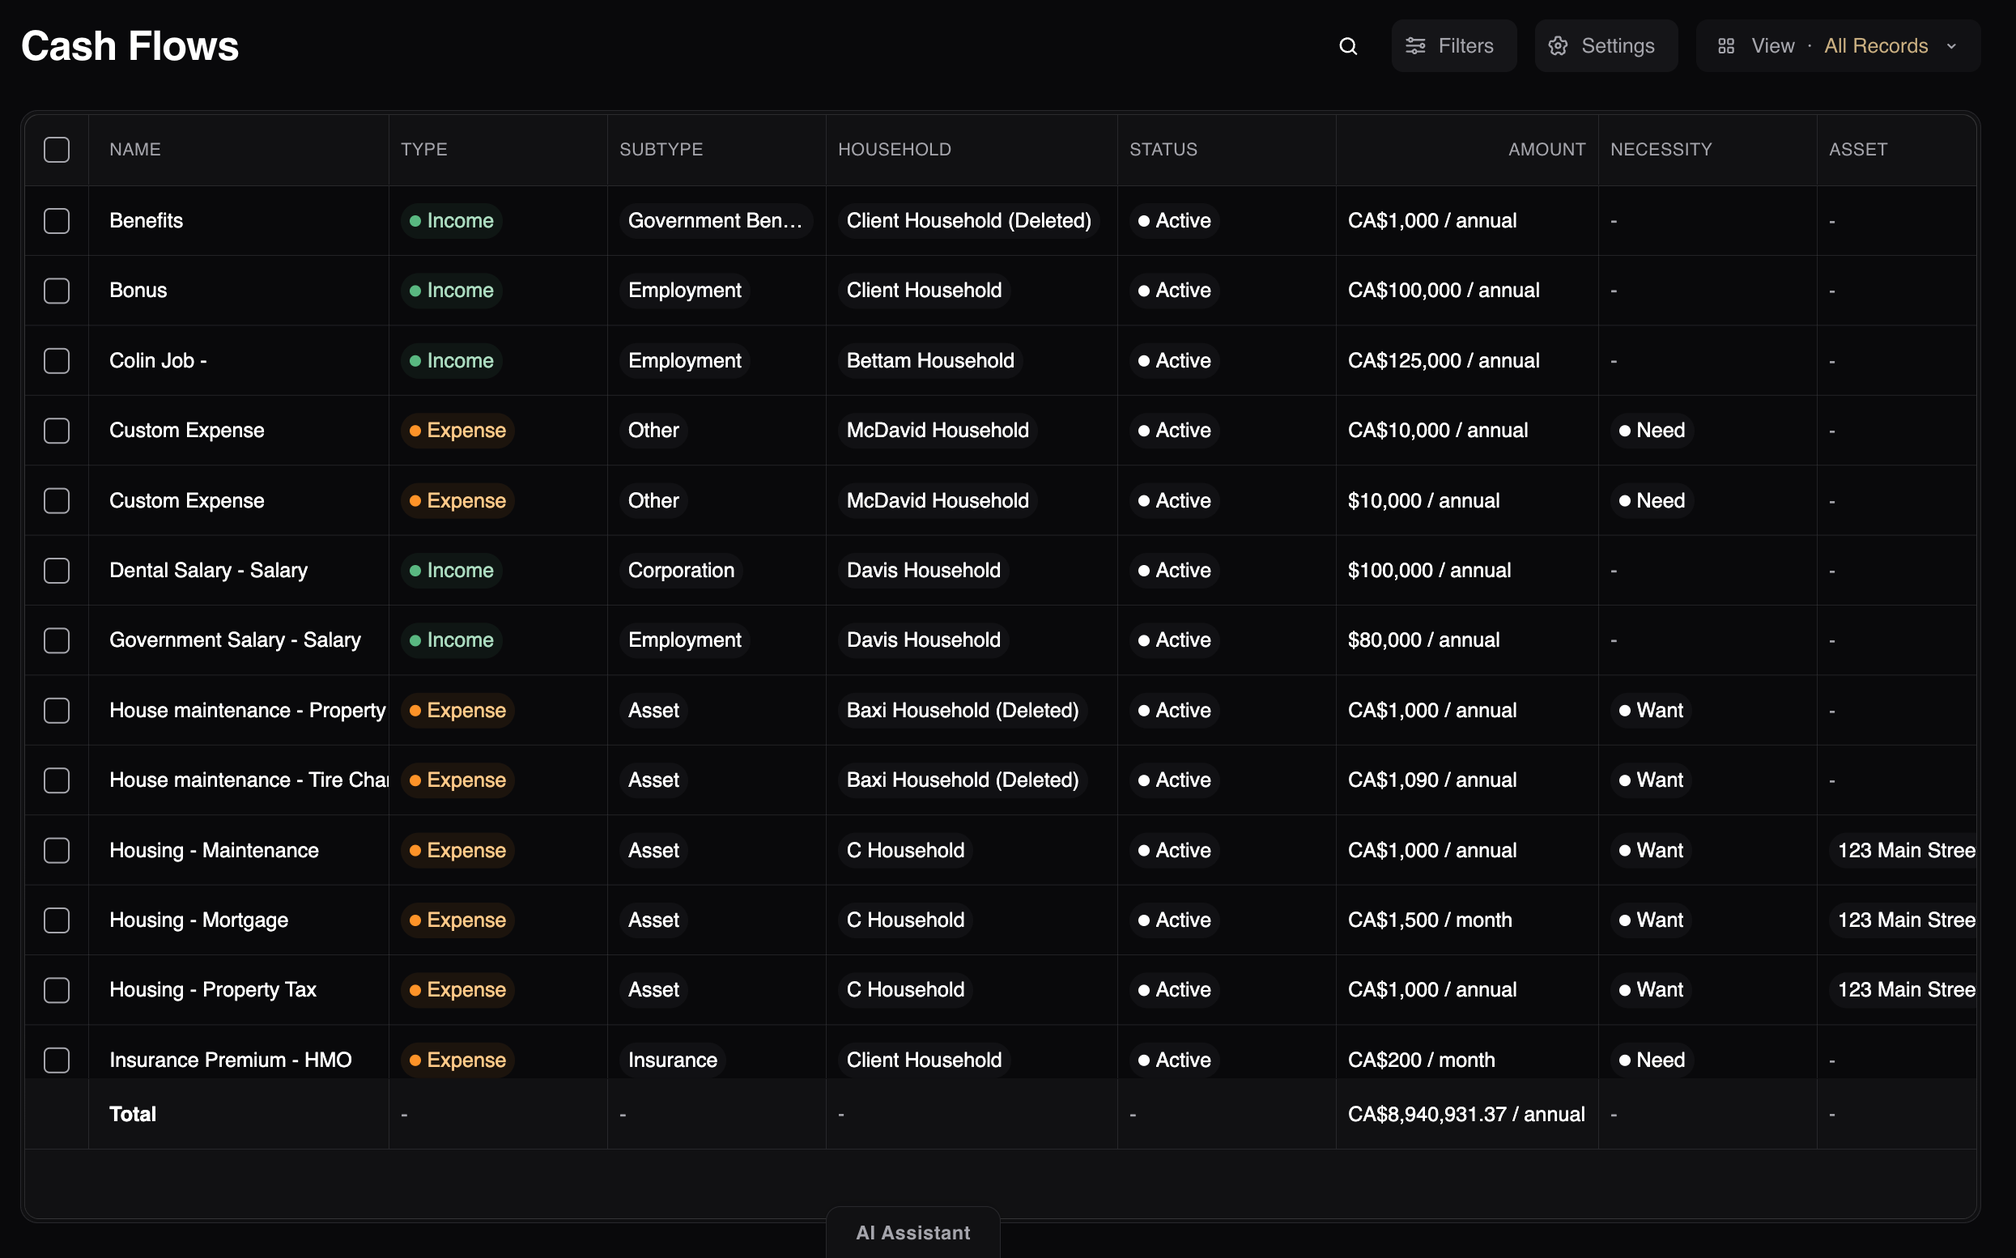
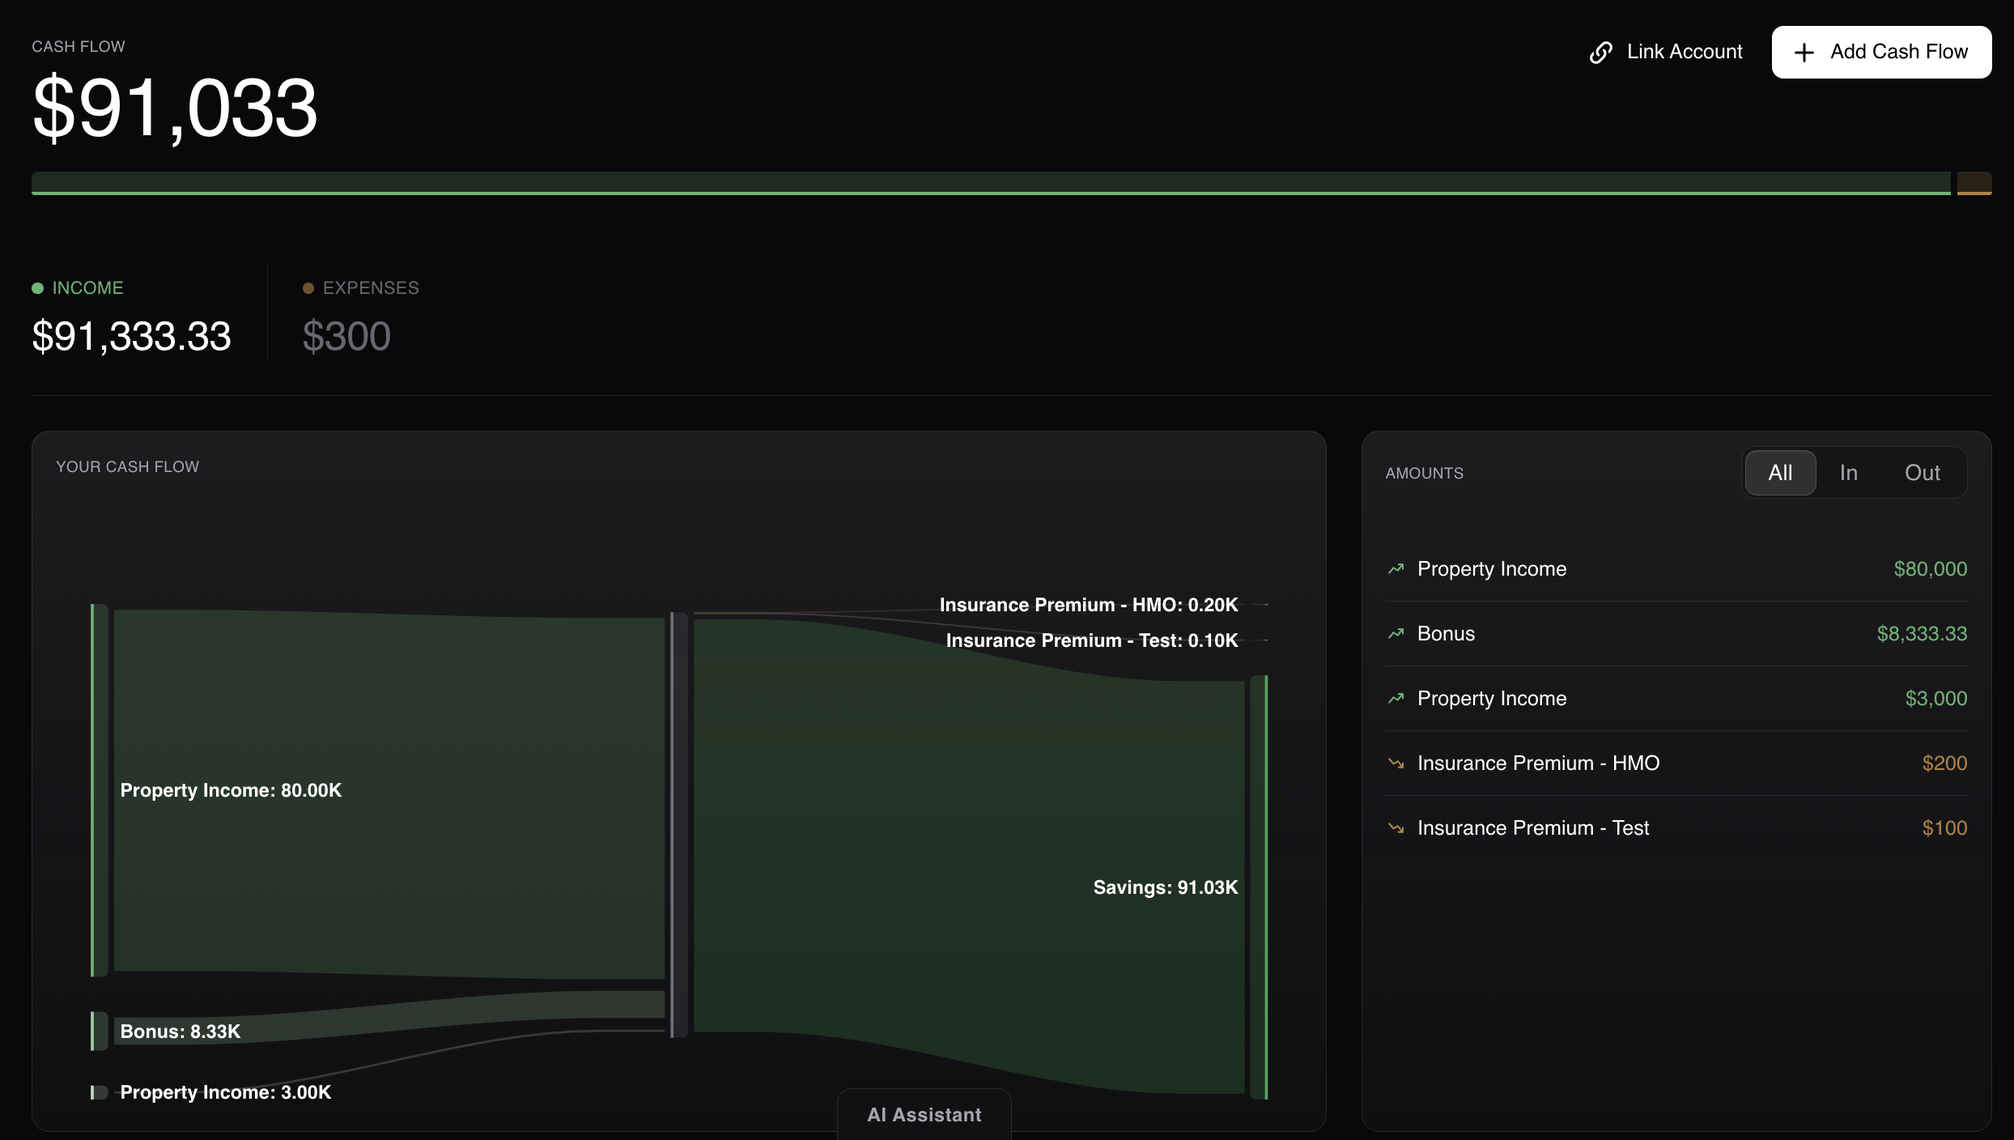
Updated screenshots, links for Financial Records, and Households

diff --git a/sidebars.js b/sidebars.js
@@ -148,7 +148,7 @@ const sidebars = {
           'components/my-practice/service-models',
           'components/my-practice/client-service',
           'components/my-practice/custom-fields',
-          'components/institutions',
+          'components/my-practice/institutions',
       ]
     },
       'components/super-mode',

diff --git a/docs/components/households/financials.md b/docs/components/households/financials.md
@@ -14,7 +14,9 @@ To view and manage financial data for a specific client:
 2. Locate the **Financials** dropdown in the top navigation bar.
 3. Select the appropriate sub-page from the dropdown menu.
 
-The Financials section is organized into the following sub-pages:
+![Accessing the Financials Page](../../assets/images/financials/financials-page.png)
+
+The **Financials** section is organized into the following sub-pages:
 
 | Group | Pages | Purpose |
 |-------|-------|---------|
@@ -23,20 +25,13 @@ The Financials section is organized into the following sub-pages:
 | **Investments** | Investments | Manage portfolio holdings and performance |
 | **Risk Profile** | Risk Profile | Assess risk tolerance and capacity |
 
-:::danger IMAGE NEEDS UPDATE
-This GIF is outdated and needs to be replaced. It shows the old navigation with "All Financials", "Accounts", and "Cash Flows" tabs, which have been replaced with the new dropdown structure described above.
-:::
-
-
 ---
 
 ## Net Worth
 
 The **Net Worth** page provides a high-level visualization of the household's financial health, displaying the real-time calculation of **Total Assets** minus **Total Liabilities**.
 
-:::info IMAGE PLACEHOLDER
-Add a screenshot showing the Net Worth page with the metric header, segment bar, Sankey diagram, and donut charts.
-:::
+![Accounts Dashboard](../../assets/images/financials/accounts.png)
 
 ### Key Elements
 
@@ -58,9 +53,7 @@ Add a screenshot showing the Net Worth page with the metric header, segment bar,
 
 The **Assets** page provides a detailed, categorized breakdown of every asset associated with the household. Each asset category is displayed in its own section with a dedicated data table.
 
-:::info IMAGE PLACEHOLDER
-Add a screenshot showing the Assets page with the metric header, segment bar, category tabs, and one or two expanded asset sections with tables.
-:::
+![Assets Page](../../assets/images/financials/assets.png)
 
 ### Key Elements
 
@@ -135,9 +128,6 @@ For detailed information on the specific fields and forms for each record type, 
 
 The **Cash Flow** page provides a side-by-side analysis of household income versus expenses, helping advisors identify surplus liquidity for saving or pinpoint spending habits that may hinder long-term goals.
 
-:::danger IMAGE NEEDS UPDATE
-This image is outdated and needs to be replaced with a current screenshot of the Cash Flow Summary page showing the side-by-side income and expenses cards with the timeframe toggle.
-:::
 ![Cash Flows Dashboard](../../assets/images/financials/cash-flows.png)
 
 ### Key Elements
@@ -161,9 +151,7 @@ For detailed management of individual income and expense records, use the dedica
 
 The **Income** page provides a detailed breakdown of all income sources flowing into the household, organized by source type.
 
-:::info IMAGE PLACEHOLDER
-Add a screenshot showing the Income page with the metric header, segment bar, income source tabs, and one or two expanded sections with tables.
-:::
+![Income Page](../../assets/images/financials/income.png)
 
 ### Key Elements
 
@@ -196,9 +184,7 @@ For detailed information on creating cash flow records, refer to [Cash Flows](..
 
 The **Expenses** page provides a detailed breakdown of all outflows from the household, including both recurring expenses and debt payments.
 
-:::info IMAGE PLACEHOLDER
-Add a screenshot showing the Expenses page with the metric header, segment bar, expense tabs, and sections with tables.
-:::
+![Expenses Page](../../assets/images/financials/expenses.png)
 
 ### Key Elements
 
@@ -228,9 +214,7 @@ For detailed information on creating cash flow records, refer to [Cash Flows](..
 
 The **Investments** page provides a detailed portfolio view for all investment accounts in the household, including holdings breakdowns, performance tracking, and asset class analysis.
 
-:::info IMAGE PLACEHOLDER
-Add a screenshot showing the Investments page with account tabs, donut chart, and the holdings table.
-:::
+![Investments Page](../../assets/images/financials/investments.png)
 
 ### Key Elements
 
@@ -259,13 +243,21 @@ Add a screenshot showing the Investments page with account tabs, donut chart, an
 
 The **Risk Profile** page provides a comprehensive assessment of each household member's risk tolerance and the household's overall risk capacity relative to their financial goals.
 
-:::info IMAGE PLACEHOLDER
-Add a screenshot showing the Risk Profile page with the radar chart and the risk scores table.
-:::
+![Risk Profile](../../assets/images/financials/risk-profile.png)
 
 ### Risk Tolerance
 
-The Risk Tolerance section evaluates each household head across six dimensions, displayed as a **radar chart** for visual comparison and a **scores table** for detailed values.
+The **Risk Tolerance Assessment** section evaluates each household head across six dimensions, displayed as a **radar chart** for visual comparison and a **scores table** for detailed values.
+
+### Risk Ability
+
+The Risk Ability section assesses each financial goal's risk characteristics across three dimensions:
+
+| Dimension | Description |
+|-----------|-------------|
+| **Capacity** | The financial resources available to absorb potential losses |
+| **Time Horizon** | How far away the goal is—Immediate, Short, Intermediate, or Long term |
+| **Liquidity** | The percentage of distributions needed from the portfolio |
 
 **Risk Tolerance Factors:**
 
@@ -279,16 +271,6 @@ The Risk Tolerance section evaluates each household head across six dimensions, 
 | **Preference** | Investment approach—conservative, balanced, or aggressive |
 
 Each factor is scored and assigned a risk level: **High**, **Moderate**, or **Low**. The radar chart overlays each household head's profile for easy comparison.
-
-### Risk Ability
-
-The Risk Ability section assesses each financial goal's risk characteristics across three dimensions:
-
-| Dimension | Description |
-|-----------|-------------|
-| **Capacity** | The financial resources available to absorb potential losses |
-| **Time Horizon** | How far away the goal is—Immediate, Short, Intermediate, or Long term |
-| **Liquidity** | The percentage of distributions needed from the portfolio |
 
 ### Available Actions
 

diff --git a/docs/components/about/navigation.md b/docs/components/about/navigation.md
@@ -16,16 +16,16 @@ The **Sidebar Menu** is your primary navigation rail, located on the left-hand s
 
 ![Sidebar Menu](../../assets/images/general/sidebar-menu.png)
 
-* **Dashboard & Activity:** Click **Home** to access the **Executive Summary Metrics** and your **Daily Activity Stream**, which aggregates tasks, meetings, and communications.
+* **Dashboard & Activity:** Click [**Home**](../about/home) to access the **Executive Summary Metrics** and your **Daily Activity Stream**, which aggregates tasks, meetings, and communications.
 * **Client Management:** Click [**Contacts**](../contacts/#) and [**Households**](../households/#) to manage your "Golden Record" of relationships, accessing detailed profiles, family hierarchies, and entity structures.
 * **Work Management:** Click [**Tasks**](../tasks), [**Workflows**](../workflows), and [**Meetings**](../meetings/#) to manage operational processes, tracking standardized checklists, individual to-dos, and your calendar events.
 * **Records & Communications:** Click [**Notes**](../notes) and [**Inbox**](../emails) to review comprehensive communication history, including internal memos, client emails, and team assignments.
 * **Forms:** Click [**Forms**](../forms) to manage digital paperwork, data collection, and client questionnaires.
 * **Sales & Pipeline:** Click [**Opportunities**](../opportunities) to view your sales funnel, tracking deal stages from "Lead" to "Onboarding" alongside revenue forecasts.
-* **Client Service:** Expand this section to access [**Service Models**](../my-practice/service-models) and [**KYC Updates**](../client-service), where you can track and manage regulatory "Know Your Client" reviews across all households.
-* **Financial Records:** Expand this section to access individual record types including **Insurance Policies**, **Bank Accounts**, **Investment Accounts**, **Loans**, **Credit Cards**, **Lines of Credit**, **Real Estate Properties**, **Real Assets**, **Private Investments**, **Company Equity**, **Defined Benefit Pensions**, and **Cash Flows**. Each record type links directly to its dedicated management page for aggregate analysis beyond individual household profiles.
-* **My Practice:** Expand this section to configure your firm’s administrative hub, including **Scenarios**, **Carriers**, **MGAs**, **Products & Services**, **Packages**, **Payment Methods**, **Company Profile**, **Custom Fields**, **Data Sources**, and **Clients**.
-* **SuperMode:** Click **SuperMode** to enter the high-velocity multitasking interface where you can utilize the AI Assistant and manage multiple tabs simultaneously.
+* **Client Service:** Expand this section to access [**Service Models**](../my-practice/service-models) and [**KYC Updates**](../my-practice/client-service), where you can track and manage regulatory "Know Your Client" reviews across all households.
+* **Financial Records:** Expand this section to access individual record types including [**Insurance Policies**](../financial-records/pensions#insurance-policies), [**Bank Accounts**](../financial-records/assets#bank-accounts), [**Investment Accounts**](../financial-records/investments#investments), [**Loans**](../financial-records/liabilities#loans), [**Credit Cards**](../financial-records/liabilities#credit-cards), [**Lines of Credit**](../financial-records/liabilities#lines-of-credit), [**Real Estate Properties**](../financial-records/assets#real-estate-properties), [**Real Assets**](../financial-records/assets#real-assets), [**Private Investments**](../financial-records/investments#private-investments), [**Company Equity**](../financial-records/investments#company-equity), [**Defined Benefit Pensions**](../financial-records/pensions#defined-benefit-pensions), and [**Cash Flows**](../financial-records/pensions#cash-flows). Each record type links directly to its dedicated management page for aggregate analysis beyond individual household profiles.
+* **My Practice:** Expand this section to configure your firm’s administrative hub, including [**Scenarios**](../my-scenarios), [**Carriers**](../my-practice/institutions#carriers), [**MGAs**](../my-practice/institutions#mgas-managing-general-agents), [**Products & Services**](../my-practice/products#products--services), [**Packages**](../my-practice/products#packages), **Payment Methods**, **Company Profile**, [**Custom Fields**](../my-practice/custom-fields), **Data Sources**, and **Clients**.
+* **SuperMode:** Click [**SuperMode**](../super-mode) to enter the high-velocity multitasking interface where you can utilize the AI Assistant and manage multiple tabs simultaneously.
 
 ## Global Search
 

diff --git a/docs/components/households/entity-management.md b/docs/components/households/entity-management.md
@@ -6,6 +6,8 @@ The **Household Profile** is the central hub for managing a family's aggregate i
 
 When you open a household record, the interface provides a horizontal tab navigation across the top of the page. The main tabs are:
 
+![Household Navigation](../../assets/images/household/navigation.png)
+
 * **Overview:** A dashboard with customizable widgets summarizing the household at a glance.
 * **Activities:** The centralized audit trail and record management page (see [Household Activities](activities)).
 * **Opportunity:** Manage sales opportunities linked to this household.
@@ -99,20 +101,45 @@ This added person can then be used to select an existing contact when adding a s
 
 Use this feature to add legal entities to the household for a complete financial picture.
 
-1. Navigate to the **Profile** tab within the Household record.
-2. Click the **Add Entity** button.
-4. Select the **Entity Type** you wish to create.
+1. Navigate to the **Profile** tab within the **Household** record.
+2. In the Household Details page, click the **Add Entity** button.
+
+![Add Entity](../../assets/images/household/add-entity.png)
+
+3. Select the **Entity Type** you wish to create.
+
+![Entity Type](../../assets/images/household/entity-type.png)
 
 ### How to Add a Corporation
+
 1. Enter the **Corporation Name** and click **Create Corporation**.
-3. Select the newly created entity to manage the following tabs:
-    * **Details:** Define the **Structure** (*e.g., C Corp, Co-Operative*), enter the **Nature of Business**, and set the **Establishment Date** and **Incorporation Jurisdiction**.
+
+![Adding a Corporation](../../assets/images/household/add-corporation.gif)
+
+2. Select the newly created entity to manage the following tabs:
+    * **Details Tab:** This tab is composed of three main sections:
+        
+        * **Corporation Details:** Define the Corporation Structure (e.g., C Corp, Co-Operative), view or edit the Corporation Name, Nature of Business, Parent Company, Incorporation Jurisdiction, Identifier Type, Identifier Value, Year End Day, Year End Month, and Establishment Date.
+
+        * **Members:** View and manage the individuals associated with the corporation. (If no one is assigned, it will display "There are no members for this corporation").
+        To add someone, click Add Corporation Member, where you can:
+            * Select an existing contact (from the **Add Person** step) or choose to create a new person or company.
+            * **Ownership:** Define the **Legal Ownership (%)** and **Beneficial Ownership (%)**.
+            * **Roles:** Assign specific responsibilities (e.g., Authorized signatory, board member, etc.).
+
+        * **Delete Corporation:** Use this to completely remove the entity. 
+        
+        :::warning WARNING
+        This action cannot be undone. This will permanently delete this corporation and all its data.
+        :::
+    
     * **Contact:** Input the physical **Addresses**, **Emails**, and **Phone Numbers** specifically for the business.
+    
     * **Regulatory:** * Mark if the entity is a **Reporting Issuer** or **Regulated**, providing the ticker symbols or regulator names as required.
         * Set the entity's **Status** (**For Profit or Solicits Donations**).
         * Disclose **Ownership** details if the entity owns 10% or more shares of a publicly traded company.
 
-![Adding a Corporation](../../assets/images/household/add-corporation.gif)
+![Manage Corporation Details](../../assets/images/household/manage-corporation-details.gif)
 
 ### How to Add a Foundation
 1. Enter the **Foundation Name**.

diff --git a/docs/components/my-practice/institutions.md b/docs/components/my-practice/institutions.md
@@ -19,7 +19,7 @@ This module is divided into two areas:
 
 **Carriers** are the financial institutions that issue the actual contracts (e.g., Manulife, RBC, Fidelity). Every product in the system must be linked to a Carrier to ensure accurate reporting in the Products & Packages module.
 
-![Carriers Dashboard](../assets/images/institutions/carrier-dashboard.png)
+![Carriers Dashboard](../../assets/images/institutions/carrier-dashboard.png)
 
 ### Carriers Standard List Columns
 
@@ -38,7 +38,7 @@ You can select multiple categories.
 ::: 
 3. Click **Add Carrier**.
 
-![Add a Carrier](../assets/images/institutions/add-carrier.gif)
+![Add a Carrier](../../assets/images/institutions/add-carrier.gif)
 
 ### How to Merge Carriers
 
@@ -52,7 +52,7 @@ Use this feature to consolidate duplicate records (*e.g., "Manulife" and "Manuli
     * **Target Carrier:** Select the Correct Carrier from the dropdown list.
 5. Click **Confirm**.
 
-![Merge Carriers](../assets/images/institutions/merge-carrier.gif)
+![Merge Carriers](../../assets/images/institutions/merge-carrier.gif)
 
 :::note NOTE
 Notice: All associated records will be transferred to the target carrier.
@@ -62,7 +62,7 @@ Notice: All associated records will be transferred to the target carrier.
 
 MGAs are the brokerage firms, agencies, or "uplines" through which you submit business. If you contract through a larger agency rather than directly with a carrier, you must record them here to track commission splits correctly.
 
-![MGA Dashboard](../assets/images/institutions/mga-dashboard.png)
+![MGA Dashboard](../../assets/images/institutions/mga-dashboard.png)
 
 ### How to Add an MGA
 
@@ -72,5 +72,5 @@ MGAs are the brokerage firms, agencies, or "uplines" through which you submit bu
     * **MGA Name:** Enter the Legal Name of the MGA.
 4. Click **Add MGA** button.
 
-![Add an MGA](../assets/images/institutions/add-mga.gif)
+![Add an MGA](../../assets/images/institutions/add-mga.gif)
 

diff --git a/docs/components/households/planning.md b/docs/components/households/planning.md
@@ -214,9 +214,9 @@ The **Insurance** page offers a consolidated view of protection status.
         * **Nickname:** Enter a descriptive name to easily identify the policy (e.g., "Client Term Life").
         * **Policy Type:** Select the specific category of insurance (e.g., Term Life, Critical Illness). For more details on available options, see [**Insurance Policy Types**](#insurance-policy-types).
         * **Policy Number:** Input the unique policy ID provided by the insurer.
-        * **Insurance Company:** Select the issuing carrier. You can manage this list by clicking the **Settings** icon next to the field, which redirects to the **Carriers** page. Please refer to the [Carriers Page Tutorial](../institutions#carriers) for more details.
+        * **Insurance Company:** Select the issuing carrier. You can manage this list by clicking the **Settings** icon next to the field, which redirects to the **Carriers** page. Please refer to the [**Carriers Page Tutorial**](../my-practice/institutions#carriers) for more details.
         * **MGA:** Select the Managing General Agent if applicable. 
-        You can manage this list by clicking the **Settings** icon next to the field, which redirects to the **MGAs** page. Please refer to the [MGAs Page Tutorial](../institutions#mgas-managing-general-agents) for more details.
+        You can manage this list by clicking the **Settings** icon next to the field, which redirects to the **MGAs** page. Please refer to the [**MGAs Page Tutorial**](../my-practice/institutions#mgas-managing-general-agents) for more details.
     * **Policy Details:** Enter the key timing and administrative details for the policy.
         * **Coverage Start Date:** Enter the date when the insurance coverage officially begins.
         * **Term (Years):** Specify the duration of the policy term in years.

diff --git a/docs/components/households/activities.md b/docs/components/households/activities.md
@@ -13,6 +13,8 @@ The **Activities** page uses a split-panel layout to give you simultaneous acces
 * **Records Panel (Left Side):** Displays the inventory of items — tasks, meetings, notes, forms, emails, workflows, and life events. This is where you browse, search, and manage individual records.
 * **Activity Feed (Right Side):** Displays a chronological audit trail of all actions taken on the household. This feed highlights the Actor (Team Member) and the Action (Created, Edited, Completed), providing a real-time history of team activity.
 
+![Activities Layout](../../assets/images/household/activities.png)
+
 :::note NOTE
 The **Search** bar at the top of the page searches only the **Records** panel on the left side. Use it to quickly find specific items by name or keyword.
 :::
